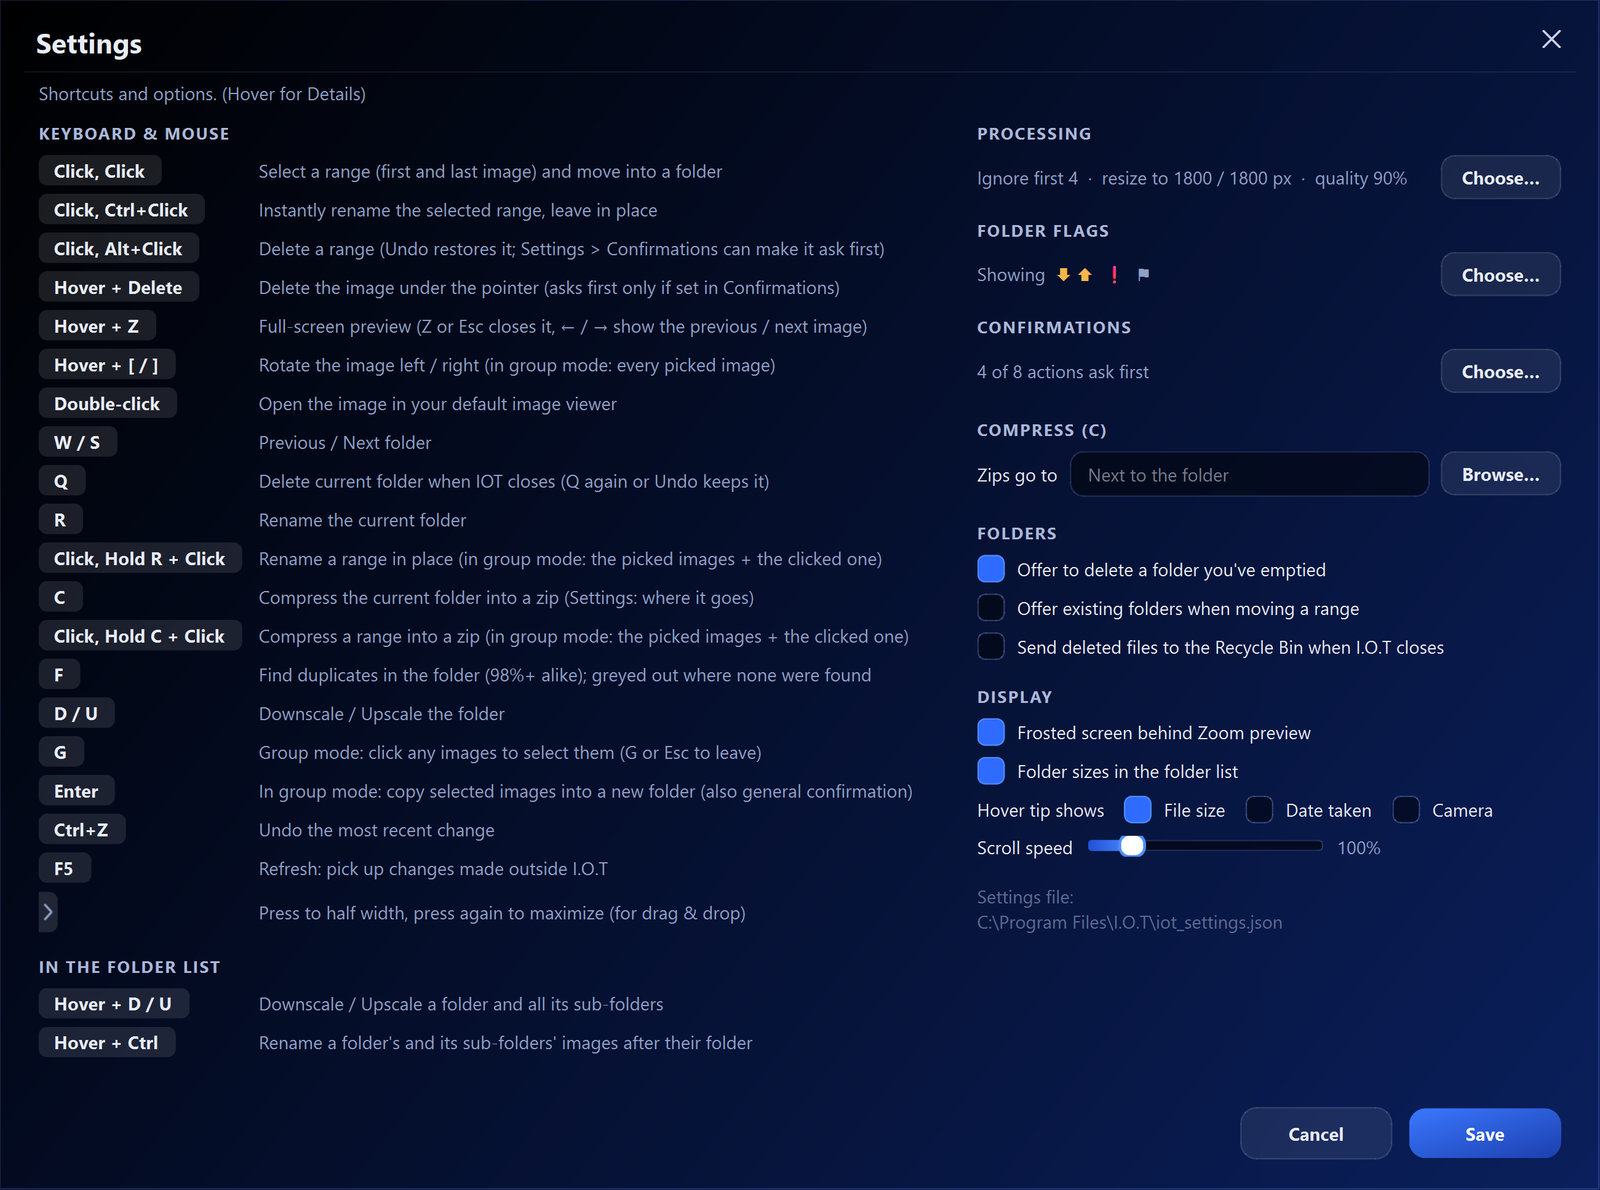
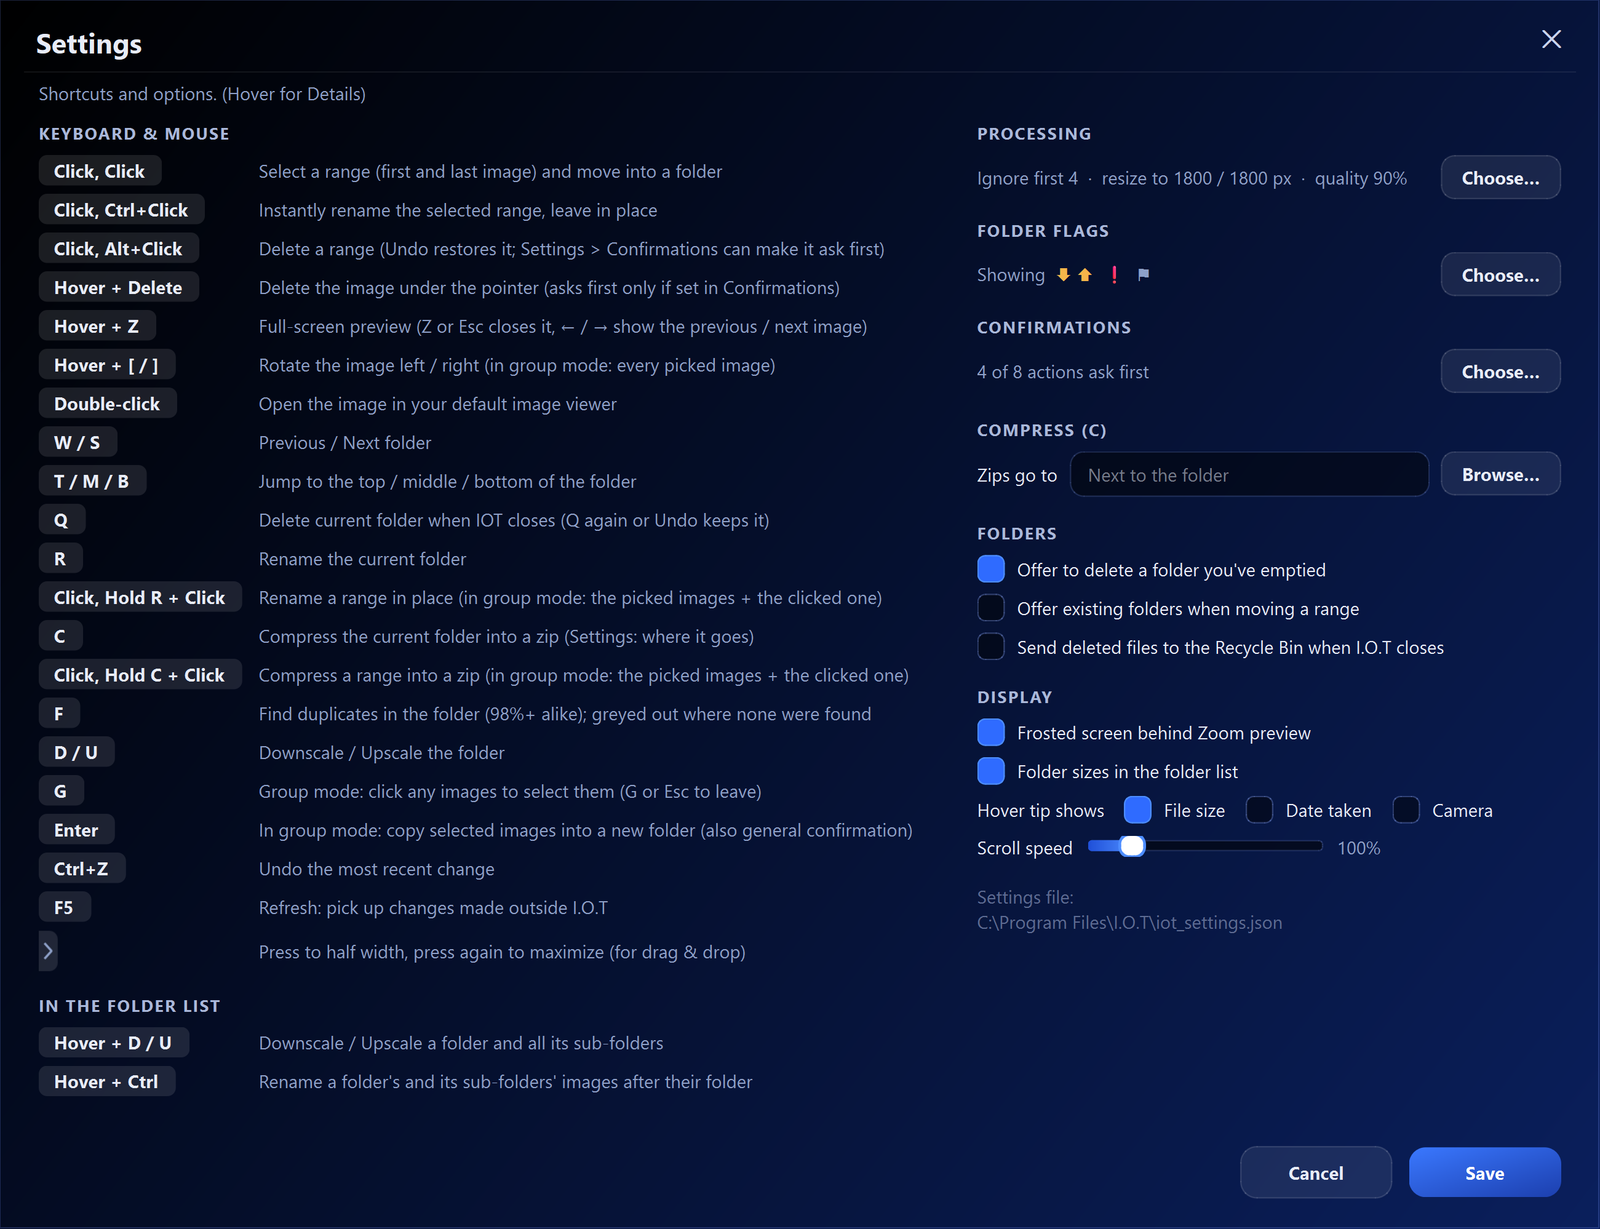
Minor Fixes & Updates

diff --git a/scripts/iot_dialogs.py b/scripts/iot_dialogs.py
@@ -9,6 +9,7 @@ SHORTCUTS = (
     ("Hover + [ / ]", "Rotate the image left / right (in group mode: every picked image)"),
     ("Double-click", "Open the image in your default image viewer"),
     ("W / S", "Previous / Next folder"),
+    ("T / M / B", "Jump to the top / middle / bottom of the folder"),
     ("Q", "Delete current folder when IOT closes (Q again or Undo keeps it)"),
     ("R", "Rename the current folder"),
     ("Click, Hold R + Click", "Rename a range in place (in group mode: the picked images + the clicked one)"),

diff --git a/README.md b/README.md
@@ -30,7 +30,7 @@ A fast workflow focused all-in-one desktop tool for sorting photo collections: b
 
 ## Getting started
 
-**Requirements:** Python 3 (developed on 3.13), [PySide6](https://pypi.org/project/PySide6/) (the Qt window toolkit) and [Pillow](https://pypi.org/project/pillow/). Drag and drop works on every platform with nothing extra to install.
+**Requirements:** Python 3 (>=3.13, Install before proceeding below), [PySide6](https://pypi.org/project/PySide6/) (the Qt window toolkit) and [Pillow](https://pypi.org/project/pillow/). Drag and drop works on every platform with nothing extra to install.
 
 ```bash
 pip install PySide6 pillow
@@ -77,7 +77,7 @@ Supported formats: **JPEG, PNG, WebP, BMP, GIF and AVIF**, plus **HEIC / HEIF** 
 - **Undo / Log / Settings**, **Refresh (F5)** and a **light / dark theme** switch. Refresh picks up changes made outside I.O.T (in a file manager, say): it re-reads the folder tree and reloads the current folder without losing your place.
 - **Status bar:** messages, the current range selection, and the folder's image count, size and sort order.
 
-Right-clicking the grid opens a menu with Settings, Undo, the Change Log and Refresh, then four sub-menus (*Grid Zoom* presets, *Jump* to the top, middle or bottom, *Sort by*, and *Tools* with every tool) and the options.
+Right-clicking the grid opens a menu with Settings, Undo, the Change Log and Refresh, then four sub-menus (*Grid Zoom* presets, *Jump* to the top, middle or bottom (also **T**, **M**, **B**), *Sort by*, and *Tools* with every tool) and the options.
 
 ### Sort order
 
@@ -324,6 +324,7 @@ Settings are saved in `iot_settings.json` next to `iot.pyw`. If several I.O.T wi
 | Hover + [ / ]              | Rotate the image left / right (in group mode: every picked image)                                  |
 | Double-click               | Open the image in your default image viewer                                                        |
 | W / S                      | Previous / next folder                                                                             |
+| T / M / B                  | Jump to the top / middle / bottom of the folder                                                    |
 | Q                          | Delete the current folder when I.O.T closes (Q again or Undo keeps it)                             |
 | R                          | Rename the current folder                                                                          |
 | Click, Hold R + Click      | Rename a range in place (in group mode: the picked images and the clicked one)                     |
